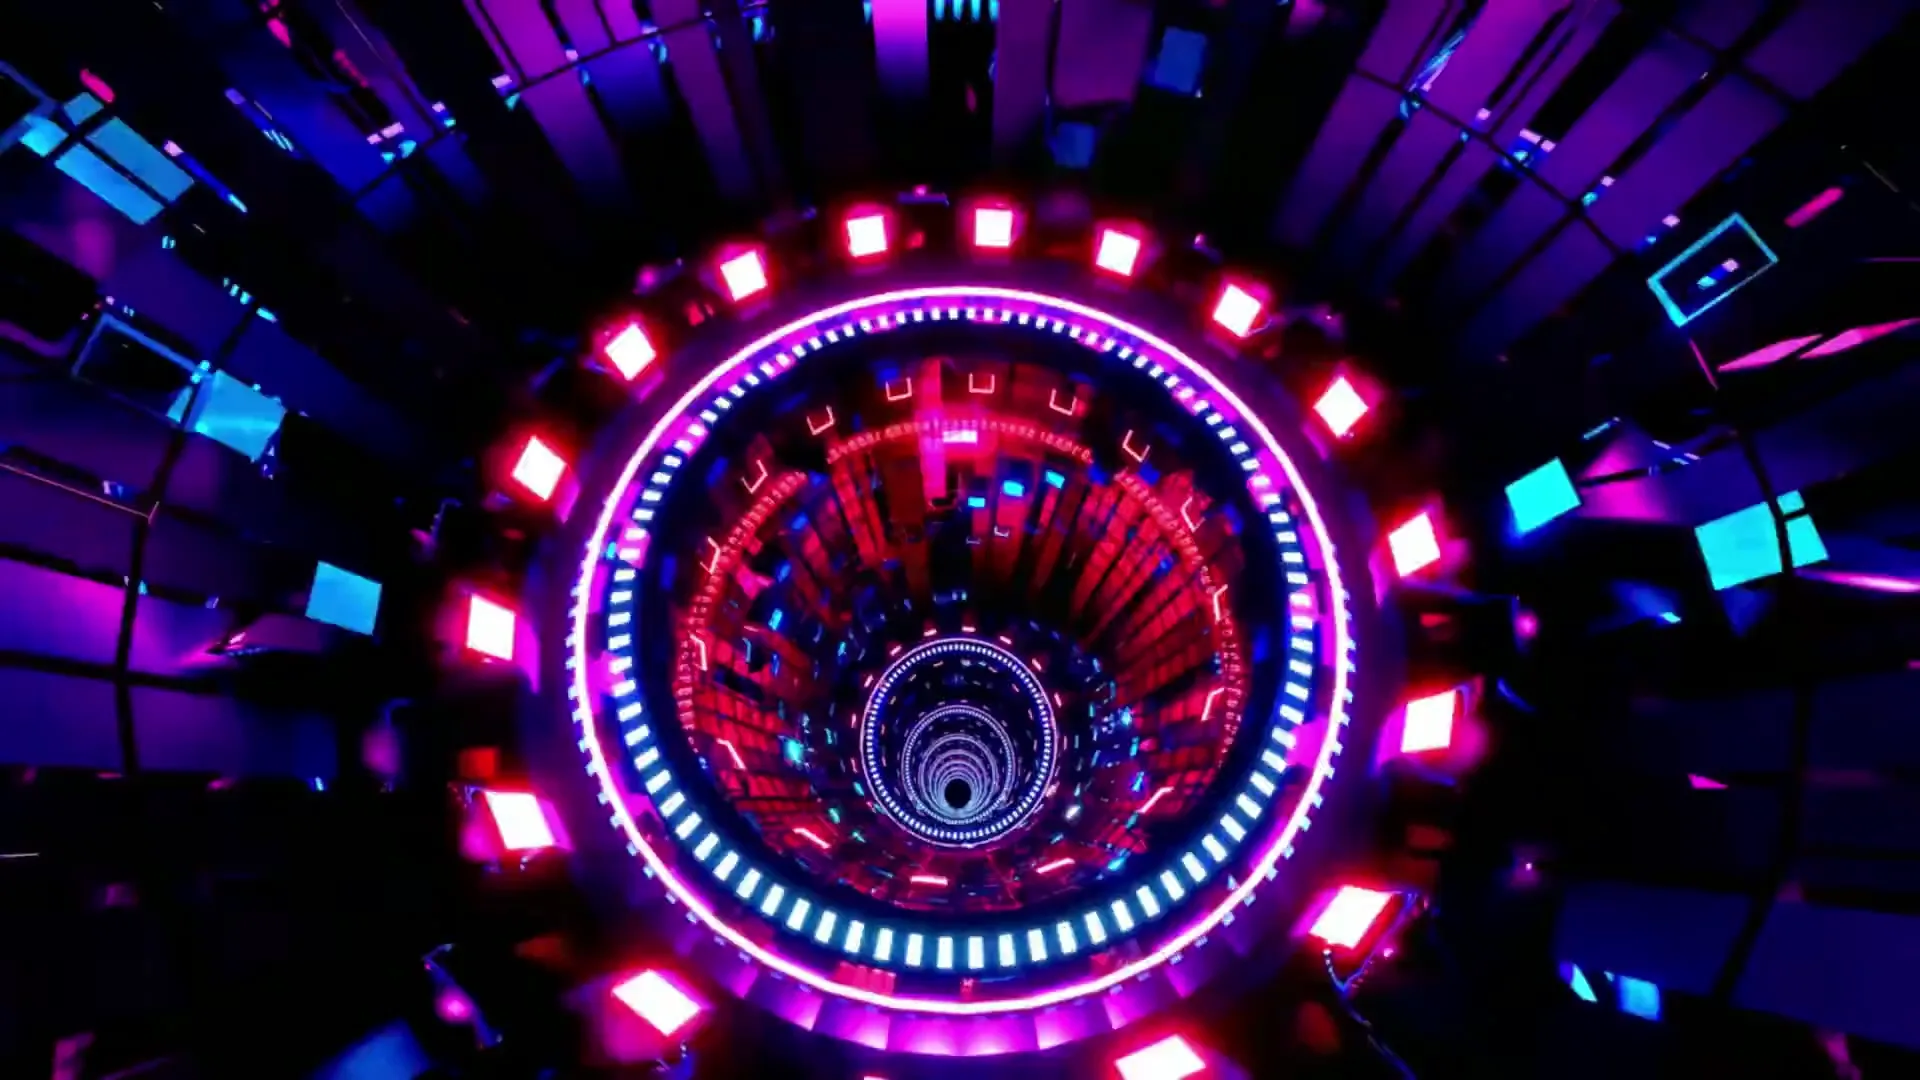
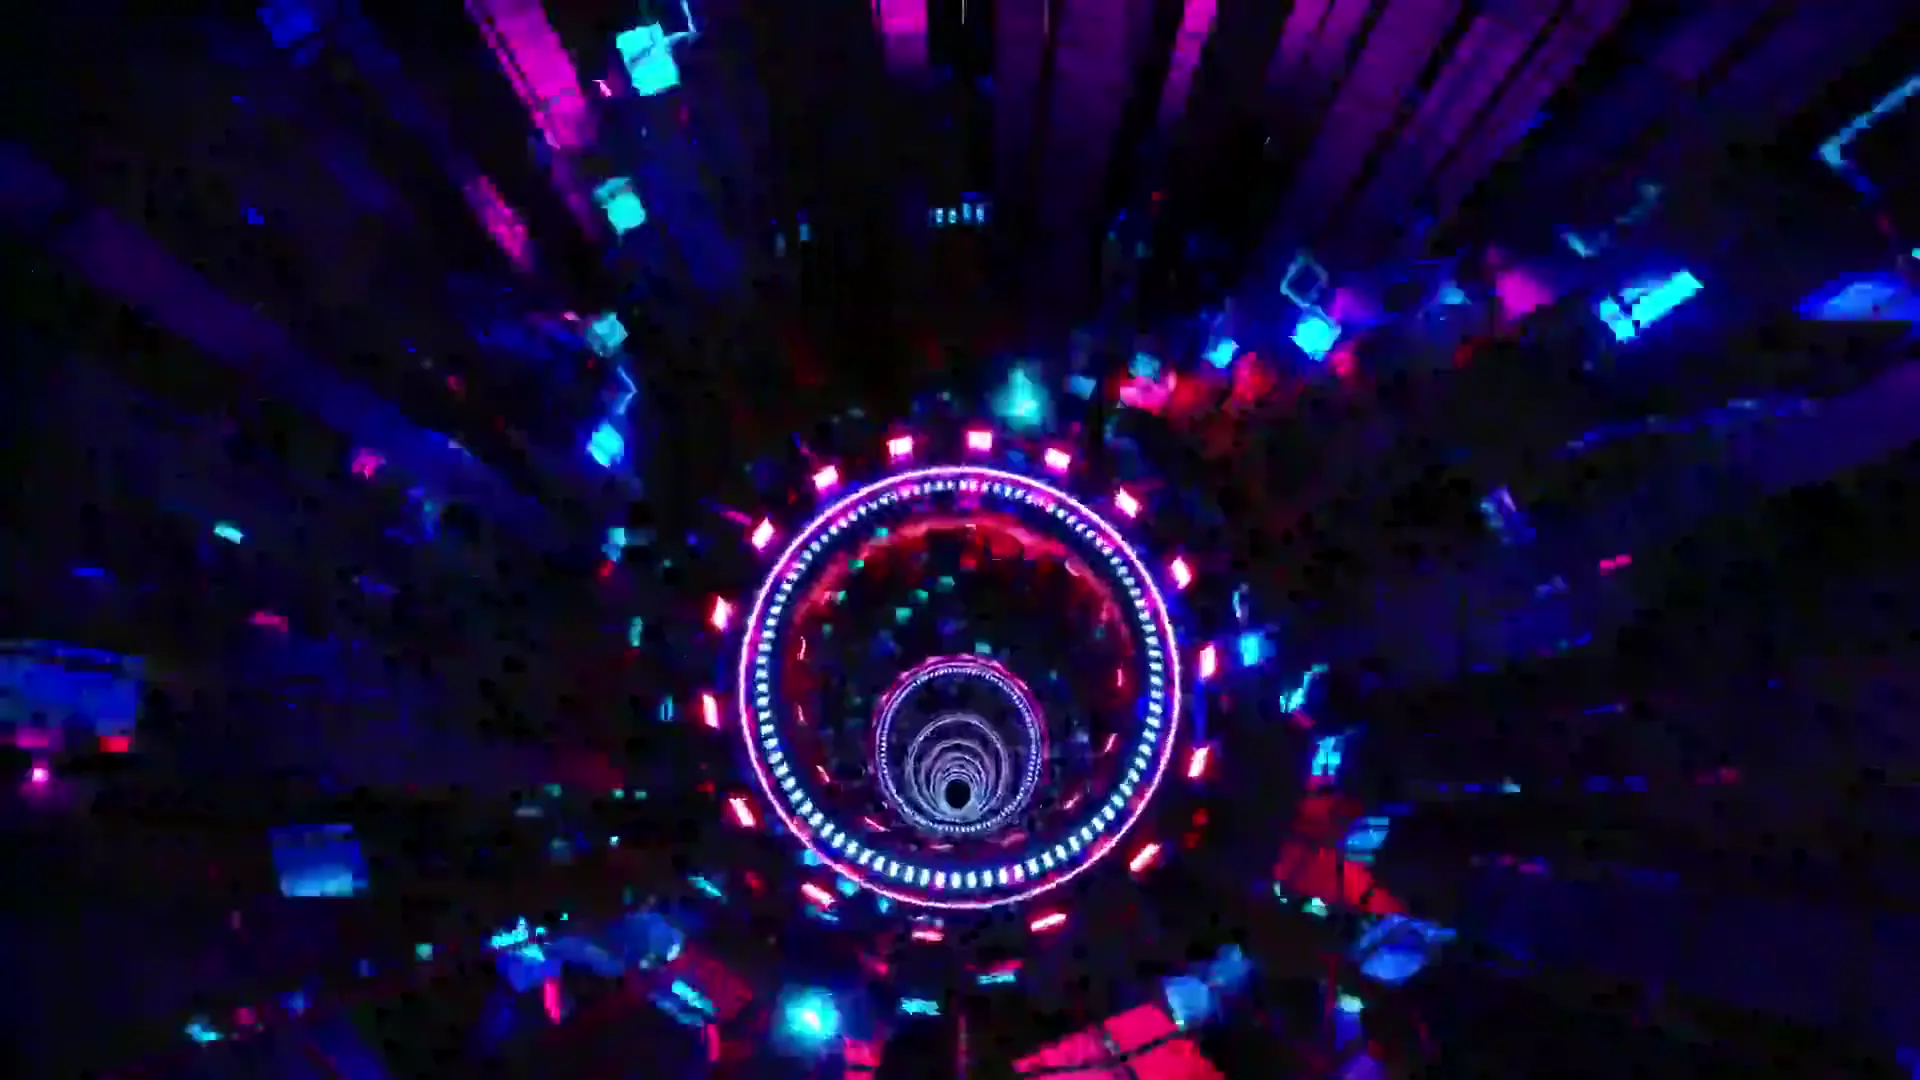
Evade hero: (1) center the hero text — caption container is now an inset-0 flex items-center/justify-center centerer (no tailwind translate, to avoid clobbering framer style y) wrapping a container-wide text-center block, so 'Experience Online Freedom.' + the 'Say goodbye…' subtext sit in the vertic

diff --git a/refgd/components/EvadeVaultEmblem.tsx b/refgd/components/EvadeVaultEmblem.tsx
@@ -1,0 +1,238 @@
+/**
+ * EvadeVaultEmblem — the animated "vault core" cyber emblem (reticle ring,
+ * counter-rotating hex circuit, combination dial, orbiting nodes, radar
+ * sweep, scan beam and the central shield-lock glyph). It was originally
+ * the centerpiece of the Evade hero; the hero was decluttered to video +
+ * text, so the emblem now lives in the "Evade like a PRO." dossier as the
+ * framed evidence illustration (replacing the old static vault image).
+ *
+ * Pure CSS animation (no JS). The wrapper carries `data-anim-section` so
+ * OffscreenGlowPauser freezes every infinite keyframe in this subtree
+ * while it is scrolled out of view (anti-lag, especially on iPhone).
+ * Desktop-only layers (radar, scan, orbit nodes) are hidden on small
+ * screens, and all motion is disabled under prefers-reduced-motion.
+ */
+export default function EvadeVaultEmblem({ className }: { className?: string }) {
+  return (
+    <div
+      data-anim-section
+      aria-hidden="true"
+      className={`ev-vault-emblem${className ? " " + className : ""}`}
+    >
+      {/* breathing halo */}
+      <span className="ev-vault-halo" />
+
+      {/* radar sweep (desktop) */}
+      <span className="ev-vault-radar ev-vault-desk" />
+
+      {/* outer reticle ring */}
+      <div className="ev-vault-layer ev-vault-outer">
+        <svg viewBox="0 0 400 400" className="ev-vault-svg">
+          <circle cx="200" cy="200" r="194" className="ev-vault-ticks" />
+          <circle cx="200" cy="200" r="176" className="ev-vault-ring-faint" />
+          <path
+            className="ev-vault-bracket"
+            d="M200 12 v18 M200 388 v-18 M12 200 h18 M388 200 h-18"
+          />
+        </svg>
+      </div>
+
+      {/* mid hex frame + circuit (counter-rotating) */}
+      <div className="ev-vault-layer ev-vault-mid">
+        <svg viewBox="0 0 400 400" className="ev-vault-svg">
+          <polygon
+            className="ev-vault-hex"
+            points="200,58 323,129 323,271 200,342 77,271 77,129"
+          />
+          <polygon
+            className="ev-vault-hex-inner"
+            points="200,96 290,148 290,252 200,304 110,252 110,148"
+          />
+          <path
+            className="ev-vault-trace"
+            d="M200 58 V20 M323 129 l34 -20 M323 271 l34 20 M200 342 V380 M77 271 l-34 20 M77 129 l-34 -20"
+          />
+          <circle className="ev-vault-vtx" cx="200" cy="58" r="4" />
+          <circle className="ev-vault-vtx" cx="323" cy="129" r="4" />
+          <circle className="ev-vault-vtx" cx="323" cy="271" r="4" />
+          <circle className="ev-vault-vtx" cx="200" cy="342" r="4" />
+          <circle className="ev-vault-vtx" cx="77" cy="271" r="4" />
+          <circle className="ev-vault-vtx" cx="77" cy="129" r="4" />
+        </svg>
+      </div>
+
+      {/* combination dial (rotating) */}
+      <div className="ev-vault-layer ev-vault-dial">
+        <svg viewBox="0 0 400 400" className="ev-vault-svg">
+          <circle cx="200" cy="200" r="118" className="ev-vault-dial-ring" />
+          <circle cx="200" cy="200" r="118" className="ev-vault-dial-ticks" />
+          <path
+            className="ev-vault-dial-arc"
+            d="M200 82 A118 118 0 0 1 318 200"
+          />
+        </svg>
+      </div>
+
+      {/* orbiting data nodes (desktop) */}
+      <div className="ev-vault-layer ev-vault-orbit ev-vault-desk">
+        <span className="ev-vault-node" style={{ ["--a" as any]: "0deg" }} />
+        <span className="ev-vault-node" style={{ ["--a" as any]: "120deg" }} />
+        <span className="ev-vault-node" style={{ ["--a" as any]: "240deg" }} />
+      </div>
+      <div className="ev-vault-layer ev-vault-orbit ev-vault-orbit-2 ev-vault-desk">
+        <span
+          className="ev-vault-node ev-vault-node-sm"
+          style={{ ["--a" as any]: "60deg" }}
+        />
+        <span
+          className="ev-vault-node ev-vault-node-sm"
+          style={{ ["--a" as any]: "200deg" }}
+        />
+      </div>
+
+      {/* scan beam (desktop) */}
+      <span className="ev-vault-scan ev-vault-desk" />
+
+      {/* core shield-lock glyph */}
+      <div className="ev-vault-layer ev-vault-core">
+        <svg viewBox="0 0 400 400" className="ev-vault-svg">
+          <defs>
+            <radialGradient id="evvCore" cx="50%" cy="42%" r="62%">
+              <stop offset="0%" stopColor="#eafeff" stopOpacity="0.95" />
+              <stop offset="42%" stopColor="#22d3ee" stopOpacity="0.55" />
+              <stop offset="100%" stopColor="#0b1220" stopOpacity="0" />
+            </radialGradient>
+            <linearGradient id="evvShield" x1="0" y1="0" x2="0" y2="1">
+              <stop offset="0%" stopColor="#7be7ff" />
+              <stop offset="55%" stopColor="#22d3ee" />
+              <stop offset="100%" stopColor="#7c5cff" />
+            </linearGradient>
+          </defs>
+          <circle
+            cx="200"
+            cy="196"
+            r="96"
+            fill="url(#evvCore)"
+            className="ev-vault-coreglow"
+          />
+          <path
+            className="ev-vault-shield"
+            d="M200 130 L256 152 L256 206 C256 246 230 268 200 282 C170 268 144 246 144 206 L144 152 Z"
+          />
+          <circle className="ev-vault-key" cx="200" cy="198" r="13" />
+          <path
+            className="ev-vault-key"
+            d="M193 206 L207 206 L203 232 L197 232 Z"
+          />
+        </svg>
+      </div>
+
+      <style>{`
+        .ev-vault-emblem {
+          position: relative;
+          width: min(100%, 440px);
+          aspect-ratio: 1 / 1;
+          margin: 0 auto;
+          display: grid;
+          place-items: center;
+          will-change: transform, opacity;
+        }
+        .ev-vault-layer { position: absolute; inset: 0; }
+        .ev-vault-svg { width: 100%; height: 100%; overflow: visible; display: block; }
+
+        .ev-vault-halo {
+          position: absolute; inset: 14%;
+          border-radius: 50%;
+          background: radial-gradient(circle, rgba(34,211,238,0.30), rgba(124,92,255,0.12) 45%, transparent 70%);
+          animation: evvBreathe 6s ease-in-out infinite;
+          will-change: transform, opacity;
+        }
+        @keyframes evvBreathe {
+          0%,100% { transform: scale(0.94); opacity: 0.65; }
+          50%     { transform: scale(1.06); opacity: 1; }
+        }
+
+        .ev-vault-radar {
+          position: absolute; inset: 4%;
+          border-radius: 50%;
+          background: conic-gradient(from 0deg, rgba(34,211,238,0) 0deg, rgba(34,211,238,0) 290deg, rgba(34,211,238,0.22) 340deg, rgba(125,231,255,0.55) 360deg);
+          -webkit-mask-image: radial-gradient(circle, black 0 60%, transparent 61%);
+                  mask-image: radial-gradient(circle, black 0 60%, transparent 61%);
+          animation: evvSpin 7s linear infinite;
+          will-change: transform;
+        }
+
+        .ev-vault-outer { animation: evvSpin 80s linear infinite; will-change: transform; }
+        .ev-vault-mid   { animation: evvSpinRev 110s linear infinite; will-change: transform; }
+        .ev-vault-dial  { animation: evvSpin 46s linear infinite; will-change: transform; }
+
+        .ev-vault-ticks { fill: none; stroke: rgba(125,231,255,0.45); stroke-width: 2; stroke-dasharray: 2 12; }
+        .ev-vault-ring-faint { fill: none; stroke: rgba(125,231,255,0.16); stroke-width: 1; }
+        .ev-vault-bracket { fill: none; stroke: rgba(125,231,255,0.7); stroke-width: 2.5; stroke-linecap: round; }
+
+        .ev-vault-hex { fill: none; stroke: rgba(34,211,238,0.55); stroke-width: 1.6; stroke-linejoin: round; }
+        .ev-vault-hex-inner { fill: rgba(34,211,238,0.03); stroke: rgba(124,92,255,0.35); stroke-width: 1; stroke-linejoin: round; }
+        .ev-vault-trace {
+          fill: none; stroke: rgba(125,231,255,0.7); stroke-width: 1.6;
+          stroke-dasharray: 6 10; animation: evvFlow 5s linear infinite;
+          will-change: stroke-dashoffset;
+        }
+        .ev-vault-vtx { fill: #7be7ff; }
+
+        .ev-vault-dial-ring { fill: none; stroke: rgba(125,231,255,0.25); stroke-width: 1; }
+        .ev-vault-dial-ticks { fill: none; stroke: rgba(125,231,255,0.5); stroke-width: 7; stroke-dasharray: 2 18.6; }
+        .ev-vault-dial-arc { fill: none; stroke: rgba(34,211,238,0.85); stroke-width: 2.5; stroke-linecap: round; }
+
+        .ev-vault-orbit   { animation: evvSpin 18s linear infinite; will-change: transform; }
+        .ev-vault-orbit-2 { animation: evvSpinRev 26s linear infinite; }
+        .ev-vault-node {
+          position: absolute; left: 50%; top: 50%; width: 12px; height: 12px;
+          margin: -6px 0 0 -6px; border-radius: 50%;
+          background: radial-gradient(circle, #ffffff 0%, #7be7ff 45%, rgba(34,211,238,0) 72%);
+          transform: rotate(var(--a)) translateY(calc(-1 * clamp(150px, 22vw, 205px)));
+          will-change: transform;
+        }
+        .ev-vault-node-sm {
+          width: 8px; height: 8px; margin: -4px 0 0 -4px;
+          background: radial-gradient(circle, #ffffff 0%, #c4b5fd 45%, rgba(124,92,255,0) 72%);
+          transform: rotate(var(--a)) translateY(calc(-1 * clamp(120px, 18vw, 168px)));
+        }
+
+        .ev-vault-scan {
+          position: absolute; left: 14%; right: 14%; top: 50%; height: 2px;
+          background: linear-gradient(90deg, transparent, rgba(125,231,255,0.8), transparent);
+          animation: evvScan 5s ease-in-out infinite;
+          will-change: transform; opacity: 0;
+        }
+
+        .ev-vault-core { display: grid; place-items: center; animation: evvPulse 4.5s ease-in-out infinite; will-change: transform; }
+        .ev-vault-coreglow { opacity: 0.9; }
+        .ev-vault-shield { fill: rgba(8,16,28,0.55); stroke: url(#evvShield); stroke-width: 2.6; stroke-linejoin: round; }
+        .ev-vault-key { fill: #eafeff; }
+
+        @keyframes evvSpin    { to { transform: rotate(360deg); } }
+        @keyframes evvSpinRev { to { transform: rotate(-360deg); } }
+        @keyframes evvFlow    { to { stroke-dashoffset: -240; } }
+        @keyframes evvPulse   { 0%,100% { transform: scale(0.98); } 50% { transform: scale(1.03); } }
+        @keyframes evvScan {
+          0%,100% { transform: translateY(-120px); opacity: 0; }
+          12%,88% { opacity: 0.85; }
+          50%     { transform: translateY(120px); }
+        }
+
+        @media (hover: none) and (max-width: 1366px) {
+          .ev-vault-radar, .ev-vault-scan { display: none !important; }
+        }
+        @media (max-width: 860px) {
+          .ev-vault-desk { display: none !important; }
+          .ev-vault-mid  { animation-duration: 150s; }
+        }
+        @media (prefers-reduced-motion: reduce) {
+          .ev-vault-halo, .ev-vault-radar, .ev-vault-outer, .ev-vault-mid,
+          .ev-vault-dial, .ev-vault-trace, .ev-vault-orbit, .ev-vault-orbit-2,
+          .ev-vault-scan, .ev-vault-core { animation: none !important; }
+        }
+      `}</style>
+    </div>
+  );
+}

diff --git a/refgd/components/evade/EvadeIntroEditorial.tsx b/refgd/components/evade/EvadeIntroEditorial.tsx
@@ -1,8 +1,8 @@
 "use client";
 import EditableText from "@/components/EditableText";
-import EditableImage from "@/components/EditableImage";
 import KineticText from "@/components/KineticText";
 import SafeReveal from "@/components/SafeReveal";
+import EvadeVaultEmblem from "@/components/EvadeVaultEmblem";
 import HudEyebrow from "./HudEyebrow";
 import HudFrame from "./HudFrame";
 
@@ -16,13 +16,17 @@ const BODIES = [
  *
  * Replaces the gradient glass panel + corner blobs with a HudFrame
  * dossier: an oversized backdrop "01", monospace file metadata, the
- * vault art presented as evidence behind a corner-bracket reticle, and
- * the two intel paragraphs styled as numbered file entries. Distinct
- * silhouette from every other section.
+ * animated vault-lock emblem presented as evidence behind a corner-bracket
+ * reticle, and the two intel paragraphs styled as numbered file entries.
+ * Distinct silhouette from every other section.
  *
- * Preserved editIds: evade.ch1.eyebrow / .title, evade.intro.body1/2,
- * evade.intro.vault (identical defaultSrc + alt). Body labels are the
- * same decorative strings as before.
+ * The static vault image (evade.intro.vault) was swapped for the animated
+ * EvadeVaultEmblem — the layered shield-lock emblem that was originally the
+ * hero centerpiece — per request. The emblem is purely decorative (not an
+ * admin-editable field).
+ *
+ * Preserved editIds: evade.ch1.eyebrow / .title, evade.intro.body1/2. Body
+ * labels are the same decorative strings as before.
  */
 export default function EvadeIntroEditorial() {
   return (
@@ -111,13 +115,7 @@ export default function EvadeIntroEditorial() {
                 ))}
                 <span aria-hidden className="pointer-events-none absolute inset-x-8 -bottom-4 h-14 rounded-[100%]"
                   style={{ background: "radial-gradient(ellipse 60% 100% at 50% 0%, rgba(34,211,238,0.45), transparent 70%)", filter: "blur(24px)" }} />
-                <EditableImage
-                  id="evade.intro.vault"
-                  defaultSrc="/uploads/evade-vault.webp"
-                  alt="Evade — vault art"
-                  wrapperClassName="relative block mx-auto w-full"
-                  className="mx-auto block h-auto w-full object-contain drop-shadow-[0_30px_60px_rgba(34,211,238,0.45)]"
-                />
+                <EvadeVaultEmblem />
               </div>
             </SafeReveal>
           </div>

diff --git a/refgd/components/EvadeHeroPortal.tsx b/refgd/components/EvadeHeroPortal.tsx
@@ -3,8 +3,8 @@
 /**
  * EvadeHeroPortal — cinematic video hero for the Evade-Cancelations page.
  *
- * The hero is a full-bleed neon-vortex video backdrop (first 60s of the
- * source, looped + muted) behind a readability scrim and the centred
+ * The hero is a full-bleed neon-vortex video backdrop (a seamless ~22s
+ * crossfade loop, muted) behind a readability scrim and the centred
  * caption. The old layered "vault core" SVG emblem, the parallax cyber-grid
  * tunnel, drifting particles and the scroll prompt were removed per request
  * so the video reads cleanly with just the headline + subtext.
@@ -136,7 +136,7 @@ export default function EvadeHeroPortal({
   return (
     <section ref={wrapRef} className="ev-hero relative" style={{ height: "180svh" }}>
       <div className="ev-hero-stage sticky top-0 flex h-screen w-full items-center justify-center overflow-hidden">
-        {/* ───────── VIDEO BACKDROP (first 60s of source, looped + muted) ───────── */}
+        {/* ───────── VIDEO BACKDROP (seamless ~22s loop, muted) ───────── */}
         <video
           ref={videoRef}
           className="ev-hero-video"
@@ -159,8 +159,9 @@ export default function EvadeHeroPortal({
           <motion.div
             style={{ opacity: captionOpacity, y: captionY }}
             suppressHydrationWarning
-            className="container-wide pointer-events-none absolute inset-x-0 top-[24%] z-10 text-center"
+            className="pointer-events-none absolute inset-0 z-10 flex items-center justify-center"
           >
+            <div className="container-wide text-center">
             <h3
               className="editorial-display mx-auto max-w-5xl text-balance uppercase text-white"
               style={{
@@ -227,6 +228,7 @@ export default function EvadeHeroPortal({
                 {subCaption}
               </motion.p>
             )}
+            </div>
           </motion.div>
         )}
       </div>